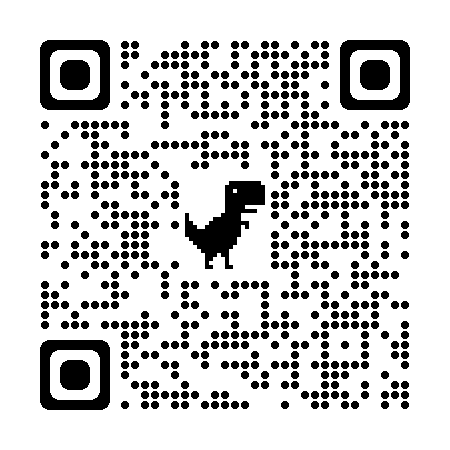
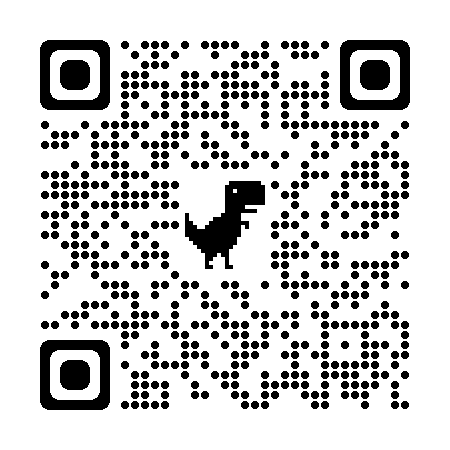
Atualização wireframe

diff --git a/style.css b/style.css
@@ -34,6 +34,11 @@ body{
     margin-top: 25px;
 }
 
+.Flex3{
+    display: flex;
+    align-items: center;
+}
+
 .Botao{
     text-decoration: none;
     color: #fff;
@@ -69,6 +74,10 @@ header{
 }
 label{
     font-size: 3em;
+    position: fixed;
+    top: 5px;
+    right: 15px;
+    color: rgba(0,0,0,0,0.5);
 }
 nav ul{
     list-style: none;
@@ -145,6 +154,54 @@ main h2{
     margin-right: 10px;
 }
 
+/* One Page*/
+#onepage{
+    padding: 50px 10px;
+}
+
+#onepage h2{
+    margin-bottom: 10px;
+}
+
+#onepage p{
+    margin-bottom: 25px;
+}
+
+#video iframe{
+    width: 340px;
+    height: 191px;
+    border: 0;
+}
+
+/* Wireframe */
+#wireframe{
+    padding: 50px 0px;
+    background: url(img/background.png);
+    background-size: cover;
+    background-position: center;
+}
+
+#textoWire{
+    color:#fff;
+    padding: 0px 10px;
+}
+
+#textoWire h2{
+    margin-bottom: 10px;
+}
+
+#textoWire p{
+    margin-bottom: 40px;
+}
+
+#textoWire span{
+    display: none;
+}
+
+#qrcode{
+    display: none;
+}
+
 /* Smartphone Landscape >>>>>>>>>>>>>>>>>>>>>>>>>>>>>>>>>>>> */
 @media (min-width: 576px){
     /* Layout */
@@ -155,6 +212,10 @@ main h2{
     /* Destaque */
     main h1, main h2{
         text-shadow: #000 0.05em 0.05em 0.05em;
+    }
+    #video iframe{
+        width: 560px;
+        height: 315px;
     }
 }
 
@@ -176,6 +237,10 @@ main h2{
     main h2{
         font-size: 2em;
     }
+    #video iframe{
+        width: 560px;
+        height: 315px;
+    }
 }
 
 /* Tablet Landscape >>>>>>>>>>>>>>>>>>>>>>>>>>>>>>>>>>>> */
@@ -188,7 +253,10 @@ main h2{
     main{
         height: 70vh;
     }
-    
+    #video iframe{
+        width: 560px;
+        height: 315px;
+    }
 }
 
 /* PC >>>>>>>>>>>>>>>>>>>>>>>>> */
@@ -237,12 +305,39 @@ main h2{
     #sobre{
         background-attachment: fixed;
     }
-    
+
     #destaqueSobre{
         display: inline;
     }
     #destaqueSobre img{
         border-radius: 50%;
         margin-right: 50px;
+    }
+    #video iframe{
+        width: 560px;
+        height: 315px;
+    }
+    /* One Page */
+    .Flex3{
+        flex-direction: row;
+        align-items: center;
+    }
+
+    /* Wireframe */
+    #wireframe{
+        background-attachment: fixed;
+    }
+
+    #wireframe span{
+        display: inline;
+    }
+
+    #qrcode{
+        display: inline;
+    }
+
+    #qrcode img{
+        width: 225px;
+        height: 225px;
     }
 }

diff --git a/index.html b/index.html
@@ -74,18 +74,33 @@
     </section>
 
     <!-- One Page -->
-    <section>
-        <div class ="Container">
-            <h2>One Page Site</h2>
-        </div>
+    <section id="onepage">
+        <div class ="Container Flex3">
+            <div id="textoSite">
+                <h2>One Page Site</h2>
+                <p>Ideal para negócios de pequeno ou médio porte o "one page site" é um site onde você inclui todas as informações qie o visitante precisa saber de forma objetiva e criativa em uma única página</p>
+            </div>
 
-       
+            <div id="video">
+                <iframe width="560" height="315" src="https://www.youtube.com/embed/A0X61Cukxg0" title="YouTube video player" allow="accelerometer; autoplay; clipboard-write; encrypted-media; gyroscope; picture-in-picture; web-share" allowfullscreen></iframe>
+            </div>
+           
+        </div>
+    
     </section>
 
     <!-- Wireframe -->
-    <section>
-        <div class ="Container">
-            <h2>Wireframe</h2>
+    <section id="wireframe">
+        <div class ="Container Flex2">
+            <div id="textoWire">
+                <h2>Wireframe</h2>
+                <p>Wireframe é uma representação visual da estrutura básica de uma página. Ele deve ser feito da maneira mais simples possível, mostrando apenas o essencial, como uma espécie de rascunho, sem cores ou imagens. Clique no botão <span> ou escaneie o QR Code </span> para obter o wireframe desta página</p>
+                <a href="wireframe.pdf" target="_blank" class="Botao">PDF</a>
+            </div>
+            <div id="qrcode">
+                <img src="img/qrcode.png" alt="qrcode">
+            </div>
+     
         </div>
 
         
